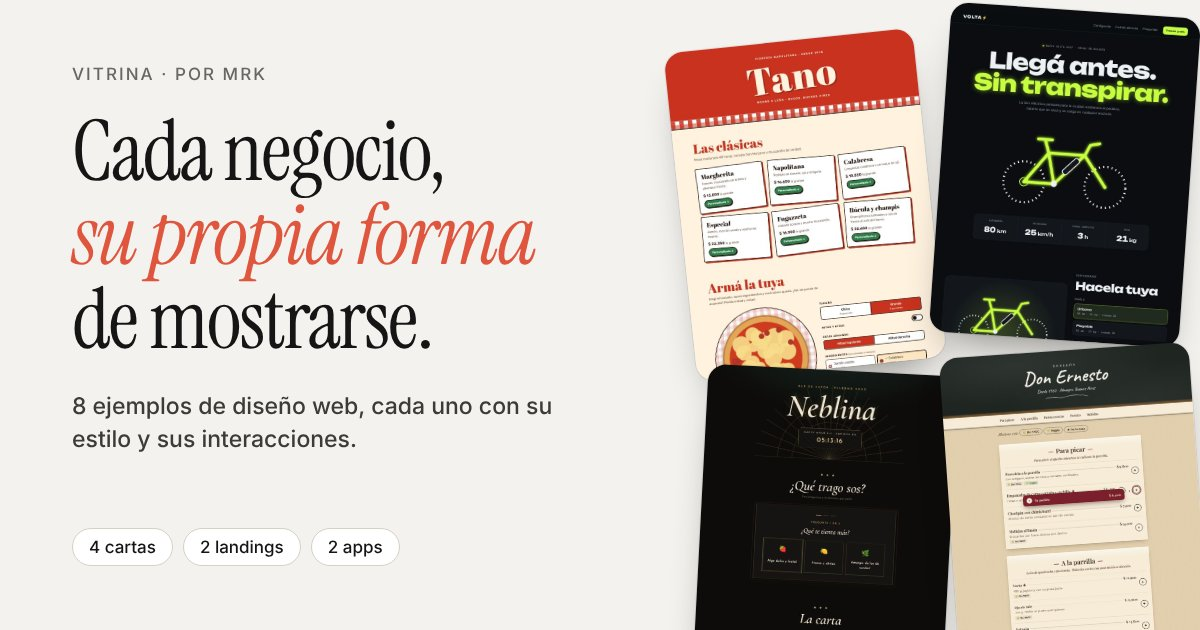
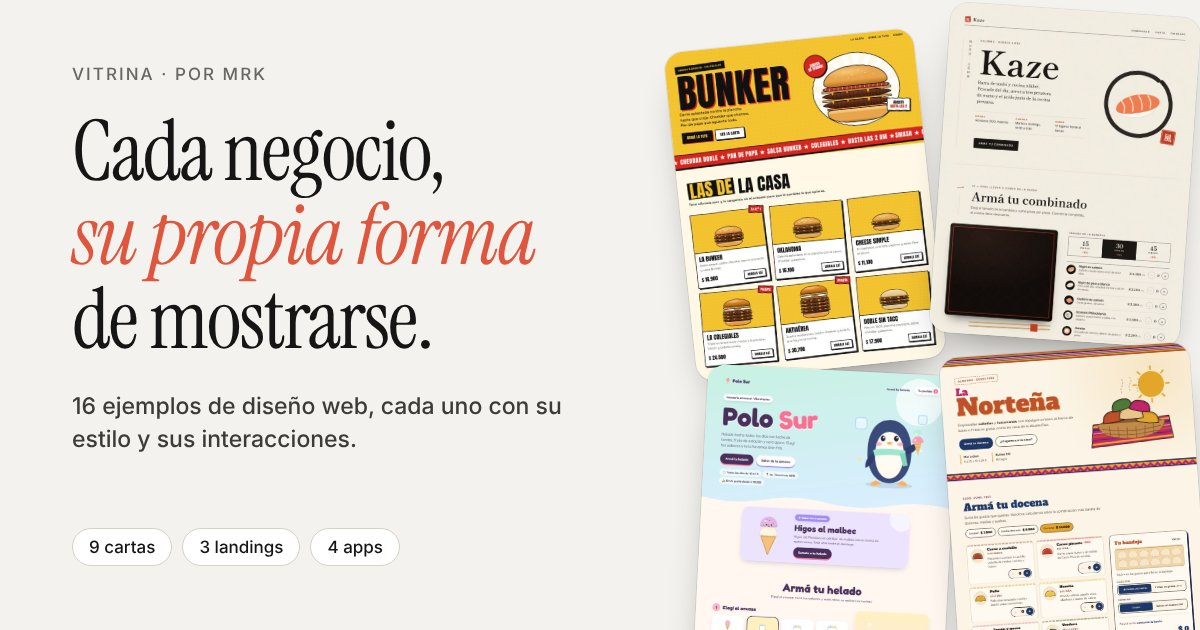
Ocho ejemplos gastronómicos nuevos en la galería
Kaze (sushi), Polo Sur (heladería), Miga (tortas por encargo), Bunker
(hamburguesas), Domingo (brunch con reservas), Lúpulo (cervecería), Raíz
(restaurante de autor) y La Norteña (empanadas). Cada uno con su diseño,
su lógica con tests, vista previa al compartir y captura en la galería.
La galería pasa a 16 ejemplos (9 cartas, 3 landings, 4 apps).

Claude-Session: https://claude.ai/code/session_01EVxcxHaVa2LM7PBRgRGX4o

diff --git a/galeria/main.ts b/galeria/main.ts
@@ -92,6 +92,78 @@ const EJEMPLOS: Ejemplo[] = [
     interacciones: ['Gráficos con tooltip y vista de tabla', 'Rango de 7, 30 o 90 días', 'Tabla ordenable con búsqueda'],
     fondo: '#f4f5f1',
   },
+  {
+    id: 'kaze',
+    tipo: 'carta',
+    nombre: 'Kaze',
+    rubro: 'Sushi y cocina nikkei',
+    descripcion: 'Papel washi, tinta sumi y un sello bermellón: editorial japonés con mucho aire.',
+    interacciones: ['Combinado que llena la bandeja pieza por pieza', 'Carta con filtros crudo, cocido y veggie', 'Omakase con lugares disponibles'],
+    fondo: '#f3ede0',
+  },
+  {
+    id: 'polo',
+    tipo: 'carta',
+    nombre: 'Polo Sur',
+    rubro: 'Heladería artesanal',
+    descripcion: 'Pastel, redondeada y juguetona, con un pingüino de mascota.',
+    interacciones: ['Bochas que se apilan con el color de cada sabor', 'Envases con límite de sabores', 'Filtros sin TACC y veganos'],
+    fondo: '#e9f6f1',
+  },
+  {
+    id: 'miga',
+    tipo: 'app',
+    nombre: 'Miga',
+    rubro: 'Tortas por encargo',
+    descripcion: 'Pastelería editorial en rosa y chocolate, con la torta dibujada en vivo.',
+    interacciones: ['Configurador que dibuja la torta capa por capa', 'Calendario de retiro con 48 h de aviso', 'Seña del 50 % y pedido por WhatsApp'],
+    fondo: '#f6e9e4',
+  },
+  {
+    id: 'bunker',
+    tipo: 'carta',
+    nombre: 'Bunker',
+    rubro: 'Smash burgers',
+    descripcion: 'Callejera y neo-brutalista: mostaza, negro, ketchup y sombras duras.',
+    interacciones: ['Burger que crece capa por capa', 'Medidor de altura y calorías', 'Las de la casa cargan en el armador'],
+    fondo: '#f2c230',
+  },
+  {
+    id: 'domingo',
+    tipo: 'app',
+    nombre: 'Domingo',
+    rubro: 'Brunch y reservas',
+    descripcion: 'Soleada y relajada, en salvia, crema y durazno.',
+    interacciones: ['Reserva eligiendo la mesa en el plano del salón', 'Carta dulce y salada', 'Combos de brunch para compartir'],
+    fondo: '#f4efe3',
+  },
+  {
+    id: 'lupulo',
+    tipo: 'carta',
+    nombre: 'Lúpulo',
+    rubro: 'Taproom de cerveza artesanal',
+    descripcion: 'Etiqueta de cerveza artesanal: papel kraft, tinta negra y cobre.',
+    interacciones: ['Vasos con el color real de cada cerveza', 'Filtros por amargor y alcohol', 'Vuelo de degustación de 4 cervezas'],
+    fondo: '#e8d6b4',
+  },
+  {
+    id: 'raiz',
+    tipo: 'landing',
+    nombre: 'Raíz',
+    rubro: 'Restaurante de autor',
+    descripcion: 'Alta cocina en blanco hueso y carbón, con dibujos de una sola línea.',
+    interacciones: ['Menú de siete pasos que se revela al bajar', 'Maridaje y versiones vegetariana y sin TACC', 'Reserva con seña'],
+    fondo: '#f5f2ec',
+  },
+  {
+    id: 'nortena',
+    tipo: 'carta',
+    nombre: 'La Norteña',
+    rubro: 'Empanadas salteñas y tucumanas',
+    descripcion: 'Colorida y artesanal, con guardas de aguayo hechas en CSS.',
+    interacciones: ['Docena mixta que llena la bandeja', 'Mejor precio entre docenas, medias y sueltas', 'Zonas de envío por barrio'],
+    fondo: '#f7efe3',
+  },
 ]
 
 const grilla = document.getElementById('grilla')!

diff --git a/index.html b/index.html
@@ -27,10 +27,10 @@
         propias interacciones. Pasá el mouse por las tarjetas para recorrerlas.
       </p>
       <div class="filtros" role="radiogroup" aria-label="Filtrar ejemplos" id="filtros">
-        <button type="button" role="radio" aria-checked="true" data-filtro="todos">Todos <span>8</span></button>
-        <button type="button" role="radio" aria-checked="false" data-filtro="carta">Cartas <span>4</span></button>
-        <button type="button" role="radio" aria-checked="false" data-filtro="landing">Landings <span>2</span></button>
-        <button type="button" role="radio" aria-checked="false" data-filtro="app">Apps <span>2</span></button>
+        <button type="button" role="radio" aria-checked="true" data-filtro="todos">Todos <span>16</span></button>
+        <button type="button" role="radio" aria-checked="false" data-filtro="carta">Cartas <span>9</span></button>
+        <button type="button" role="radio" aria-checked="false" data-filtro="landing">Landings <span>3</span></button>
+        <button type="button" role="radio" aria-checked="false" data-filtro="app">Apps <span>4</span></button>
       </div>
     </header>
 

diff --git a/vite.config.ts b/vite.config.ts
@@ -2,7 +2,25 @@ import { resolve } from 'node:path'
 import { defineConfig } from 'vite'
 
 // Cada ejemplo es una página independiente con su propio HTML, CSS y TS.
-const PAGINAS = ['index', 'bodegon', 'nube', 'pulso', 'volta', 'tano', 'neblina', 'filo', 'mercadito']
+const PAGINAS = [
+  'index',
+  'bodegon',
+  'nube',
+  'pulso',
+  'volta',
+  'tano',
+  'neblina',
+  'filo',
+  'mercadito',
+  'kaze',
+  'polo',
+  'miga',
+  'bunker',
+  'domingo',
+  'lupulo',
+  'raiz',
+  'nortena',
+]
 
 export default defineConfig({
   build: {

diff --git a/README.md b/README.md
@@ -14,6 +14,14 @@ como trabajos para clientes ficticios.
 | [Neblina](neblina/) | Carta de bar de tragos | Art déco nocturno, dorado sobre negro | Test que recomienda un trago, perfil de sabor en radar SVG, cuenta regresiva del happy hour |
 | [Filo](filo/) | App: turnero de barbería | Sobria, blanco y negro con acento ámbar | Reserva en 5 pasos con horarios ocupados, "Mis turnos" guardados, descarga del evento `.ics` |
 | [Mercadito Verde](mercadito/) | App: panel de ventas | Dashboard limpio con modo claro y oscuro | KPIs vs. período anterior, gráfico con cruz y tooltip (o vista de tabla), filtro 7/30/90 días, tabla ordenable con búsqueda |
+| [Kaze](kaze/) | Carta de sushi y nikkei | Editorial japonés: washi, tinta sumi y sello bermellón | Combinado que llena la bandeja pieza por pieza, filtros crudo / cocido / veggie, omakase con lugares |
+| [Polo Sur](polo/) | Carta de heladería | Pastel y redondeada, con pingüino de mascota | Bochas que se apilan con el color de cada sabor, envases con límite de sabores, filtros sin TACC y veganos |
+| [Miga](miga/) | App: tortas por encargo | Pastelería editorial en rosa y chocolate | Configurador que dibuja la torta en vivo, calendario de retiro con 48 h de aviso, seña del 50 % |
+| [Bunker](bunker/) | Carta de hamburguesería | Neo-brutalista callejera: mostaza, negro y ketchup | Burger que crece capa por capa, medidor de altura y calorías, combos y "las de la casa" precargadas |
+| [Domingo](domingo/) | App: brunch y reservas | Salvia, crema y durazno, serif en cursiva | Reserva eligiendo la mesa en el plano del salón, carta dulce / salada, combos |
+| [Lúpulo](lupulo/) | Carta de cervecería | Etiqueta artesanal: kraft, tinta y cobre | Vasos con el color real de cada cerveza, filtros por amargor y alcohol, vuelo de degustación de 4 |
+| [Raíz](raiz/) | Landing de restaurante de autor | Alta cocina en blanco hueso, Didone y dibujos de una línea | Menú de siete pasos que se revela al bajar, maridaje y versiones vegetariana / sin TACC, reserva con seña |
+| [La Norteña](nortena/) | Carta de empanadas | Folclore norteño: guardas de aguayo en CSS | Docena mixta que llena la bandeja, mejor precio entre docenas / medias / sueltas, zonas de envío |
 
 La página de inicio es una galería: al pasar el mouse por cada tarjeta se
 recorre la captura completa de la página, y se puede filtrar por tipo.
